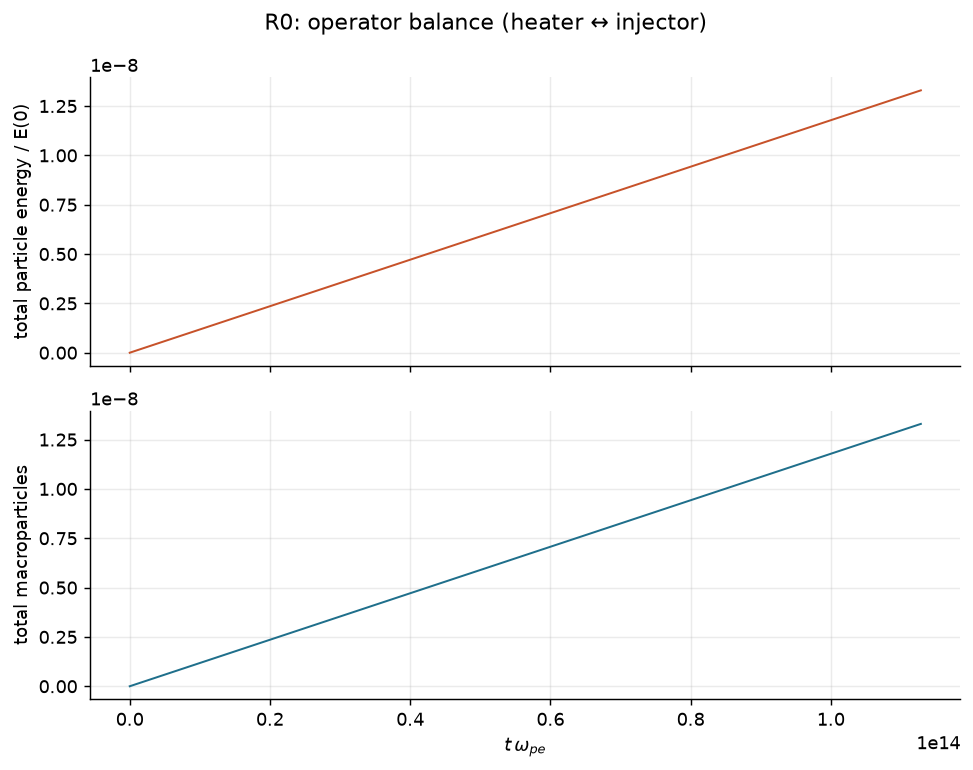
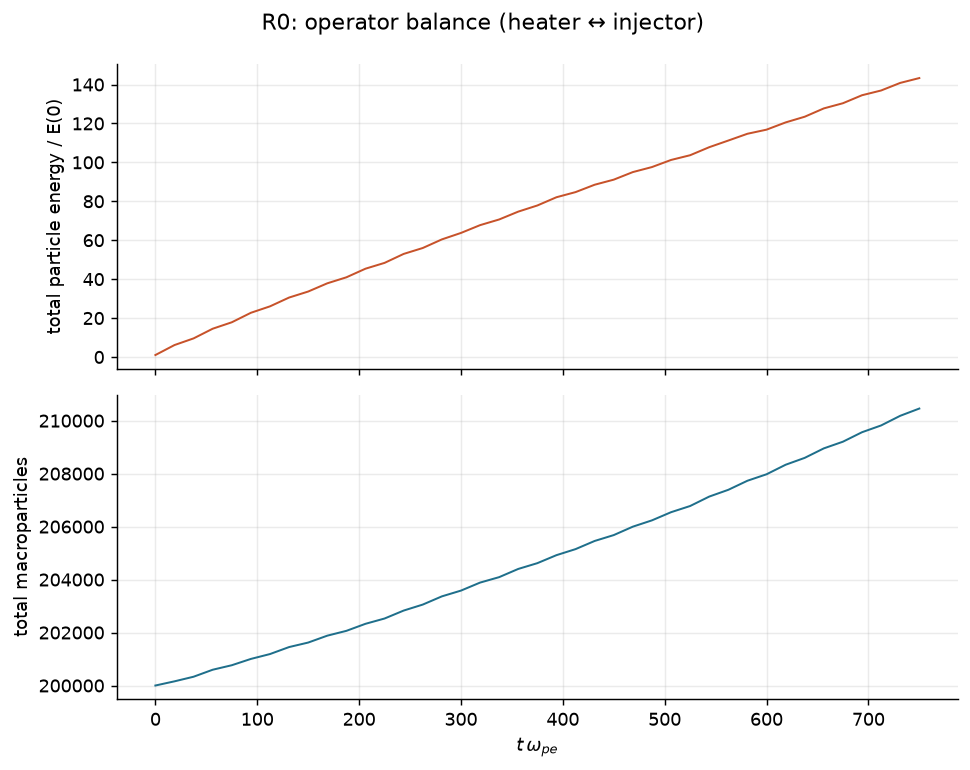
Fix operator-balance figure: correct reduced-diag column indices
run_checks.operator_balance_figure indexed the WarpX reduced-diag arrays as
if the columns were [time, value, ...], but io.reduced_diag returns the raw
table whose columns are [0]=step, [1]=time(s), [2]=total, ...  As a result
both panels plotted the time column (identical straight lines) against
step*wpe (~1e14) instead of energy/E(0) and macroparticle count vs t*wpe.

Use column 1 for time and column 2 for the totals. Verified on R0: total
particle energy/E(0) rises ~1 -> ~144, total macroparticles 200000 -> 210500,
over t*wpe 0 -> 750. The config-summary and loaded-state figures use other
code paths and are unaffected.

diff --git a/scripts/run_checks.py b/scripts/run_checks.py
@@ -97,11 +97,12 @@ def operator_balance_figure(cfg, sc, run_dir):
     except FileNotFoundError as e:
         print("  (skipping operator-balance figure:", e, ")")
         return None
-    t = EP[:, 0] * sc.wpe
+    # WarpX reduced-diag columns are [0]=step, [1]=time(s), [2]=total, ...
+    t = EP[:, 1] * sc.wpe
     fig, (a_e, a_n) = plt.subplots(2, 1, figsize=(7.6, 6.0), sharex=True)
-    a_e.plot(t, EP[:, 1] / EP[0, 1] if EP[0, 1] else EP[:, 1], color=P.C_PISTON, lw=1.1)
+    a_e.plot(t, EP[:, 2] / EP[0, 2] if EP[0, 2] else EP[:, 2], color=P.C_PISTON, lw=1.1)
     a_e.set_ylabel("total particle energy / E(0)")
-    a_n.plot(PN[:, 0] * sc.wpe, PN[:, 1], color=P.C_AMBIENT, lw=1.1)
+    a_n.plot(PN[:, 1] * sc.wpe, PN[:, 2], color=P.C_AMBIENT, lw=1.1)
     a_n.set_ylabel("total macroparticles")
     a_n.set_xlabel(r"$t\,\omega_{pe}$")
     for ax in (a_e, a_n):
